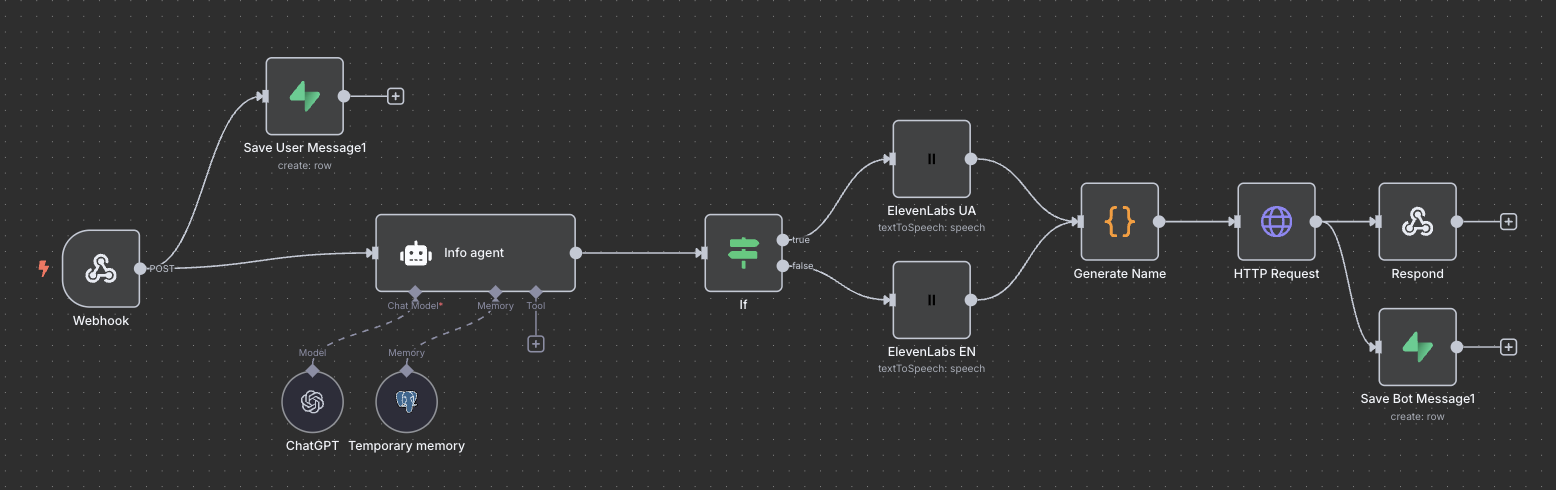
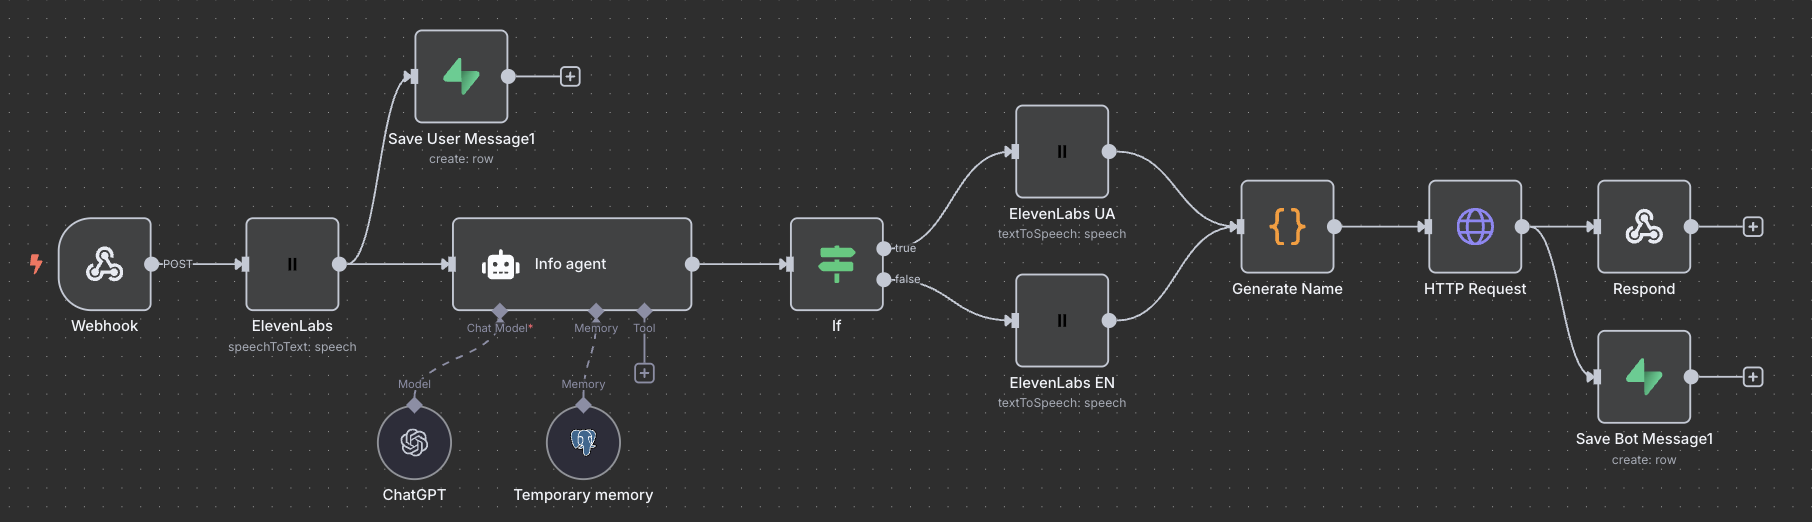
Add files via upload

diff --git a/index.html b/index.html
@@ -742,7 +742,7 @@
             <p class="text-[#888888] text-lg mb-12 max-w-2xl mx-auto">
                 Transform your business processes with custom AI solutions tailored to your specific needs.
             </p>
-            <a href="mailto:contact@nazaryesin.com"
+            <a href="mailto:nazaryesin@gmail.com"
                 class="cta-button inline-block bg-[#0A0A0A] text-[#00FFFF] px-8 py-4 rounded-lg font-bold text-lg border border-[#00FFFF] hover:text-[#FF00FF] hover:border-[#FF00FF] transition-colors">
                 Get Started
             </a>
@@ -754,20 +754,20 @@
         <div class="container mx-auto px-4">
             <div class="flex flex-col md:flex-row justify-between items-center">
                 <div class="mb-6 md:mb-0">
-                    <a href="mailto:contact@nazaryesin.com"
-                        class="text-[#888888] hover:text-[#00FFE1] transition-colors">
+                    <a href="mailto:nazaryesin@gmail.com" class="text-[#888888] hover:text-[#00FFE1] transition-colors">
                         contact@nazaryesin.com
                     </a>
                 </div>
                 <div class="flex space-x-6">
-                    <a href="https://linkedin.com/" target="_blank" class="social-icon text-[#F0F0F0]">
+                    <a href="https://www.linkedin.com/in/nazar-y-abb7381b9/" target="_blank"
+                        class="social-icon text-[#F0F0F0]">
                         <svg xmlns="http://www.w3.org/2000/svg" width="24" height="24" viewBox="0 0 24 24"
                             fill="currentColor">
                             <path
                                 d="M20.447 20.452h-3.554v-5.569c0-1.328-.027-3.037-1.852-3.037-1.853 0-2.136 1.445-2.136 2.939v5.667H9.351V9h3.414v1.561h.046c.477-.9 1.637-1.85 3.37-1.85 3.601 0 4.267 2.37 4.267 5.455v6.286zM5.337 7.433c-1.144 0-2.063-.926-2.063-2.065 0-1.138.92-2.063 2.063-2.063 1.14 0 2.064.925 2.064 2.063 0 1.139-.925 2.065-2.064 2.065zm1.782 13.019H3.555V9h3.564v11.452zM22.225 0H1.771C.792 0 0 .774 0 1.729v20.542C0 23.227.792 24 1.771 24h20.451C23.2 24 24 23.227 24 22.271V1.729C24 .774 23.2 0 22.222 0h.003z" />
                         </svg>
                     </a>
-                    <a href="https://t.me/" target="_blank" class="social-icon text-[#F0F0F0]">
+                    <a href="https://t.me/nazar_goo" target="_blank" class="social-icon text-[#F0F0F0]">
                         <svg xmlns="http://www.w3.org/2000/svg" width="24" height="24" viewBox="0 0 24 24"
                             fill="currentColor">
                             <path
@@ -813,72 +813,95 @@
             });
         });
 
-        // elements
+
+        // Elements
         const mic = document.getElementById('mic');
         const micContainer = document.getElementById('mic-container');
         const jarvisResponse = document.getElementById('jarvis-response');
         const responseText = document.getElementById('response-text');
 
-        const recognition = new (window.SpeechRecognition || window.webkitSpeechRecognition)();
-        recognition.lang = 'uk-UA';        
-        recognition.interimResults = false;
-        recognition.maxAlternatives = 1;
+        let mediaRecorder;
+        let isRecording = false;
+        let audioChunks = [];
 
-        mic.addEventListener('click', () => {
-            if (!micContainer.classList.contains('listening')) {
-                recognition.start();
+        mic.addEventListener('click', async () => {
+            if (!isRecording) {
+                startMediaRecorder();
             } else {
-                recognition.stop();
+                stopMediaRecorder();
             }
         });
 
-        recognition.onstart = () => {
-            micContainer.classList.add('listening', 'active');
-            jarvisResponse.classList.remove('show');
-            responseText.textContent = '';
-        };
-
-        recognition.onend = () => {
-            micContainer.classList.remove('active', 'listening');
-        };
-
-        recognition.onresult = async (event) => {
-            const message = event.results[0][0].transcript.trim();
-            const lang = /[A-Za-z]/.test(message) ? 'en-US' : 'uk-UA';
-
-            jarvisResponse.classList.add('show');
-            typeWriterEffect(responseText, '…');
-
+        async function startMediaRecorder() {
             try {
-                const res = await fetch('https://automationnazar.app.n8n.cloud/webhook/webhook-test', {
-                    method: 'POST',
-                    headers: { 'Content-Type': 'application/json' },
-                    body: JSON.stringify({ question: message, lang })
-                });
-                const data = await res.json();
+                const stream = await navigator.mediaDevices.getUserMedia({ audio: true });
+                mediaRecorder = new MediaRecorder(stream);
+                audioChunks = [];
+                isRecording = true;
 
-                typeWriterEffect(responseText, data.answer || '…');
+                micContainer.classList.add('active', 'listening');
+                jarvisResponse.classList.remove('show');
+                responseText.textContent = '';
 
-                if (data.audio_url) {
-                    const audio = new Audio(data.audio_url);
-                    audio.crossOrigin = 'anonymous';
-                    await audio.play();
-                } else {
-                    const utterance = new SpeechSynthesisUtterance(data.answer);
-                    utterance.lang = recognition.lang;
-                    speechSynthesis.speak(utterance);
-                }
+                mediaRecorder.ondataavailable = (e) => {
+                    audioChunks.push(e.data);
+                };
+
+                mediaRecorder.onstop = async () => {
+                    const blob = new Blob(audioChunks, { type: 'audio/webm' });
+                    const formData = new FormData();
+                    formData.append('audio', blob, 'voice.webm');
+
+                    jarvisResponse.classList.add('show');
+                    typeWriterEffect(responseText, '…');
+
+                    try {
+                        const res = await fetch('https://automationnazar.app.n8n.cloud/webhook-test/webhook-test', {
+                            method: 'POST',
+                            body: formData
+                        });
+
+                        const data = await res.json();
+                        typeWriterEffect(responseText, data.answer || '…');
+
+                        if (data.audio_url) {
+                            const audio = new Audio(data.audio_url);
+                            audio.crossOrigin = 'anonymous';
+                            await audio.play();
+                        } else if (data.answer) {
+                            const utterance = new SpeechSynthesisUtterance(data.answer);
+                            utterance.lang = 'uk-UA';
+                            speechSynthesis.speak(utterance);
+                        }
+                    } catch (err) {
+                        console.error(err);
+                        typeWriterEffect(responseText, 'Помилка отримання відповіді.');
+                    }
+
+                    micContainer.classList.remove('active', 'listening');
+                    isRecording = false;
+                };
+
+                mediaRecorder.start();
+
+                // Автоматично зупинити через 5 секунд
+                setTimeout(() => {
+                    if (mediaRecorder.state !== 'inactive') {
+                        mediaRecorder.stop();
+                    }
+                }, 5000);
             } catch (err) {
-                console.error(err);
-                typeWriterEffect(responseText, 'Помилка отримання відповіді.');
+                console.error('MediaRecorder error:', err);
+                typeWriterEffect(responseText, 'Не вдалося отримати доступ до мікрофону.');
+                micContainer.classList.remove('active', 'listening');
             }
-        };
+        }
 
-        recognition.onerror = (event) => {
-            console.error('Speech error:', event.error);
-            typeWriterEffect(responseText, 'Не вдалося розпізнати мову.');
-            micContainer.classList.remove('active', 'listening');
-        };
+        function stopMediaRecorder() {
+            if (mediaRecorder && mediaRecorder.state !== 'inactive') {
+                mediaRecorder.stop();
+            }
+        }
 
         function typeWriterEffect(element, text) {
             let i = 0;
@@ -891,6 +914,7 @@
                 }
             })();
         }
+
 
 
         const particles = document.getElementById('particles');
